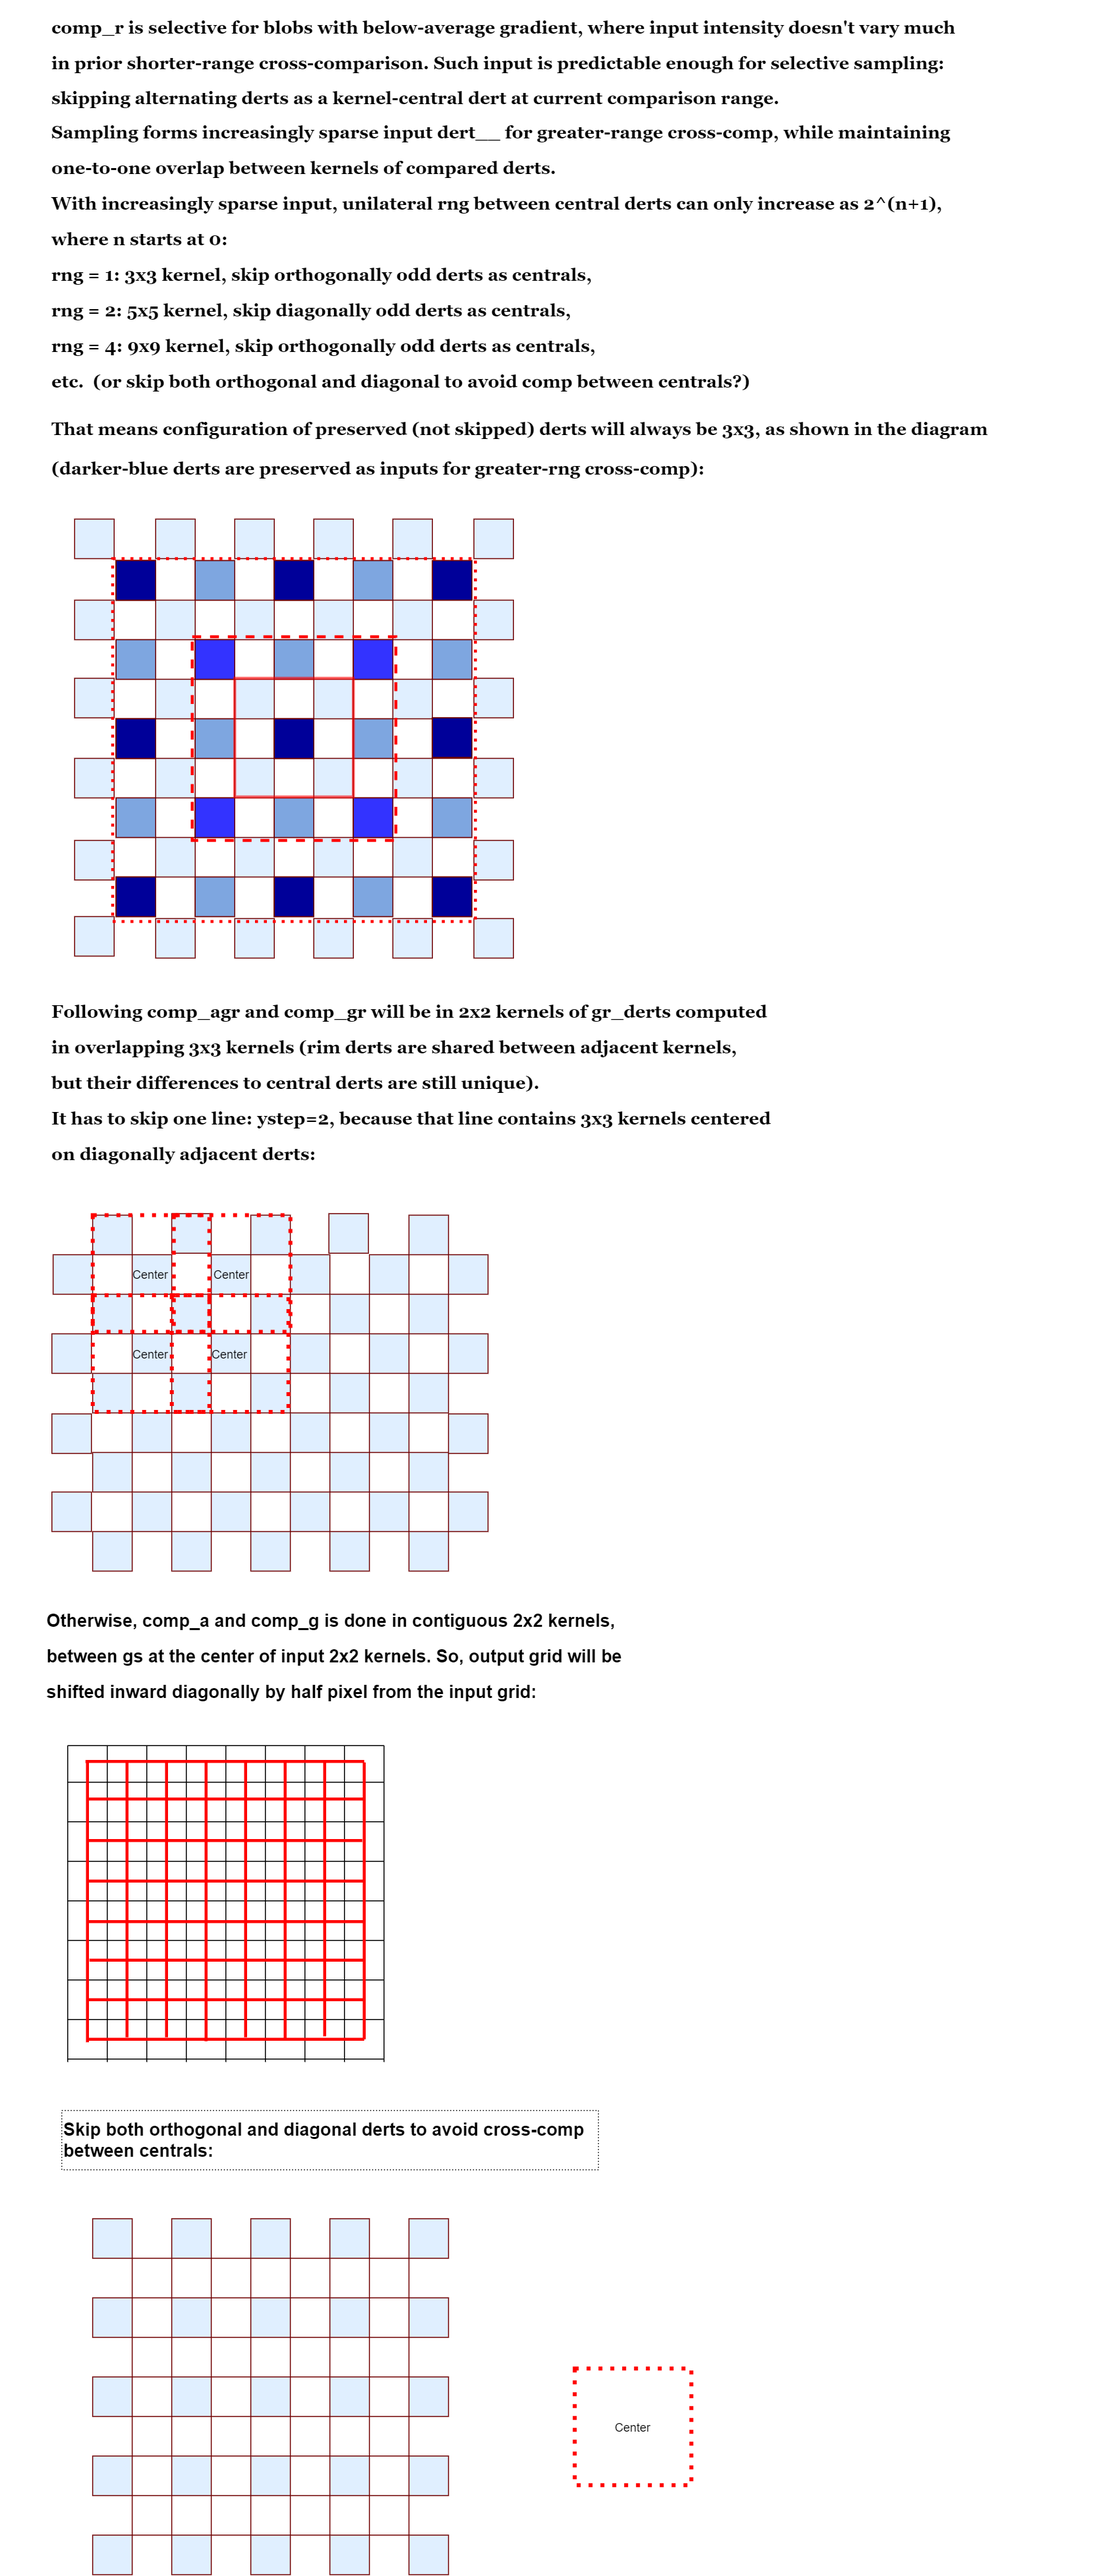
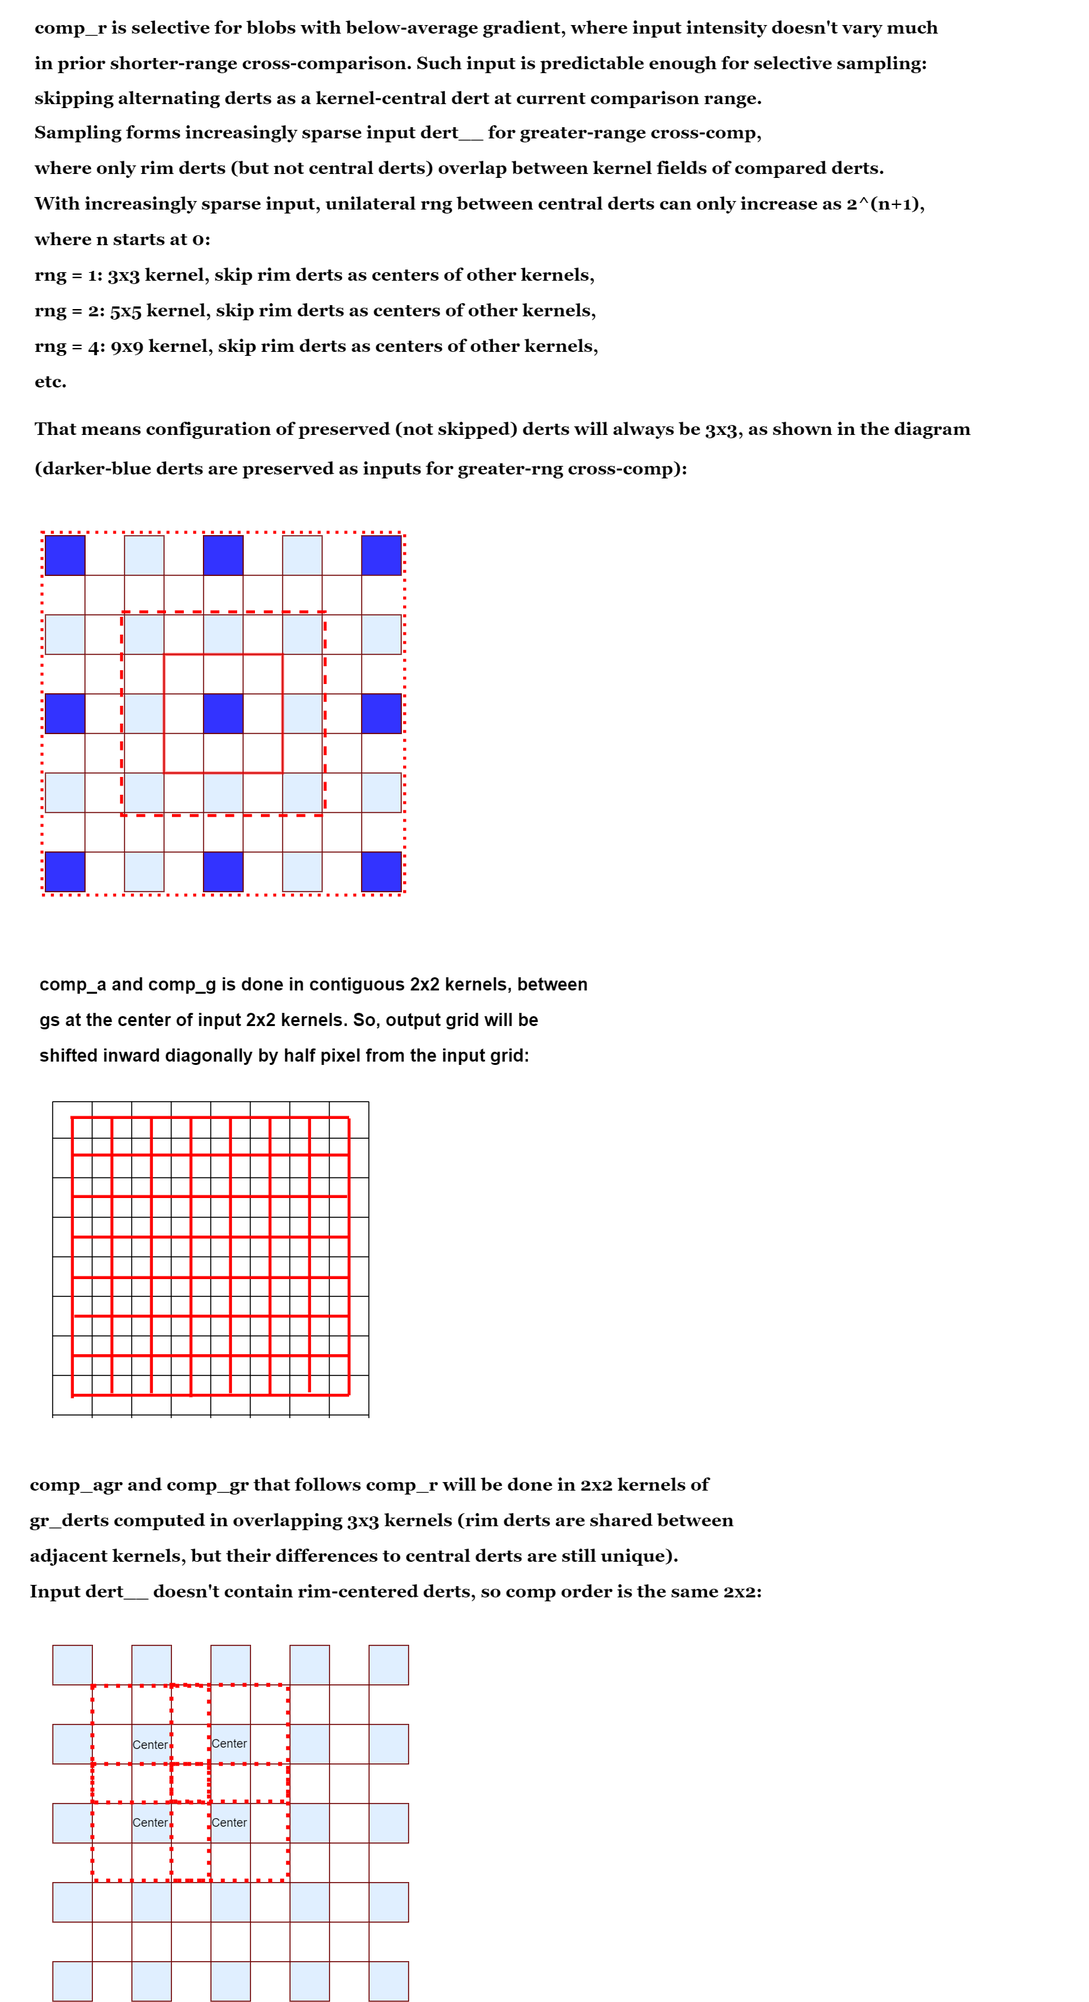
removed diagonally adjacent derts as centrals

diff --git a/frame_2D_alg/intra_blob_draft.py b/frame_2D_alg/intra_blob_draft.py
@@ -33,7 +33,7 @@ from functools import reduce
     sign, 
     map,  # boolean map of blob, to compute overlap in comp_blob
     box,  # boundary box: y0, yn, x0, xn; selective map, box in lower Layers
-    dert__, # comp_a -> ga, day, dax; comp r -> i, g, dy, dx, m; comp_g -> i, g, dy, dx, m, ga, day, dax 
+    dert__, # comp r | comp_g -> i, g, dy, dx, m; comp_a -> i, g, dy, dx, m, ga, day, dax 
     stack_[ stack_params, Py_ [(P_params, dert_)]]: refs down blob formation tree, in vertical (horizontal) order
     layer_  # [(fork_params, Dert, sub_blob_)]: list of layers across sub_blob derivation tree, nested mixed-fork deep layers
 '''
@@ -46,26 +46,26 @@ aveB = 10000  # fixed cost per intra_blob comp and clustering
 # -----------------------------------------------------------------------------------------------------------------------
 # functions, ALL WORK-IN-PROGRESS:
 
-def intra_blob(blob, rdn, rng, fig, fca, fcr, fga, ystep):  # recursive input rng+ | der+ | angle cross-comp within a blob
+def intra_blob(blob, rdn, rng, fig, fca, fcr, fga):  # recursive input rng+ | der+ | angle cross-comp within a blob
 
-    # flags:
-    # fca: comp angle, fga: comp angle of ga vs g, fig: input is g vs pixel, fcr: comp over rng+ vs der+, fc3: comp 3x3
+    # flags: fca: comp angle, fga: comp angle of ga vs g, fig: input is g vs pixel, fcr: comp over rng+ vs der+
+
     if fca:
-        dert__ = comp_a(blob['dert__'], fga, ystep)  # form ga blobs, evaluate for comp_aga | comp_g:
+        dert__ = comp_a(blob['dert__'], fga)  # form ga blobs, evaluate for comp_aga | comp_g:
         cluster_derts(blob, dert__, 1, rdn, 0, crit=5)  # cluster by sign of crit=ga -> ga_sub_blobs
 
         for sub_blob in blob['blob_']:  # eval intra_blob: if disoriented g: comp_aga, else comp_g
             if sub_blob['sign']:
                 if sub_blob['Dert']['Ga'] > aveB * rdn:
-                    # +Ga -> comp_aga -> adert = gaga, ga_day, ga_dax:
-                    intra_blob(sub_blob, rdn+1, rng=1, fig=1, fca=1, fcr=0, fga=1, ystep=1)
+                    # +Ga -> comp_aga -> dert + gaga, ga_day, ga_dax:
+                    intra_blob(sub_blob, rdn+1, rng=1, fig=1, fca=1, fcr=0, fga=1)
 
             elif -sub_blob['Dert']['Ga'] > aveB * rdn:
-                # -Ga -> comp_g -> gdert = g, gg, gdy, gdx, gm, ga, day, dax:
-                intra_blob(sub_blob, rdn+1, rng=1, fig=1, fca=0, fcr=0, fga=1, ystep=ystep)  # fga passed to comp_agg
+                # -Ga -> comp_g -> dert = g, gg, gdy, gdx, gm:
+                intra_blob(sub_blob, rdn+1, rng=1, fig=1, fca=0, fcr=0, fga=1)  # fga passed to comp_agg
     else:
-        if fcr: dert__ = comp_r(blob['dert__'], fig)  # 1-sparse sampling to maintain t-to-1 comp overlap
-        else:   dert__ = comp_g(blob['dert__'], ystep)  # sparse 3x3 comp if comp_gr
+        if fcr: dert__ = comp_r(blob['dert__'], fig)  # sparse sampling to avoid kernel center overlap
+        else:   dert__ = comp_g(blob['dert__'])
 
         cluster_derts(blob, dert__, 1, rdn, fig, crit=1)  # cluster by sign of crit=g -> g_sub_blobs
         # feedback: root['layer_'] += [[(lL, fig, fcr, rdn, rng, blob['sub_blob_'])]]  # 1st sub_layer
@@ -73,12 +73,12 @@ def intra_blob(blob, rdn, rng, fig, fca, fcr, fga, ystep):  # recursive input rn
         for sub_blob in blob['blob_']:  # eval intra_blob comp_a | comp_rng if low gradient
             if sub_blob['sign']:
                 if sub_blob['Dert']['G'] > aveB * rdn:
-                    # +G -> comp_a -> adert = a, ga=0, day=0, dax=0:
-                    intra_blob(sub_blob, rdn+1, rng=1, fig=1, fca=1, fcr=0, fga=0, ystep=ystep)
+                    # +G -> comp_a -> dert + a, ga=0, day=0, dax=0:
+                    intra_blob(sub_blob, rdn+1, rng=1, fig=1, fca=1, fcr=0, fga=0)
 
             elif -sub_blob['Dert']['G'] > aveB * rdn:
-                # -G -> comp_r -> rdert = idert (with accumulated derivatives):
-                intra_blob(sub_blob, rdn+1, rng+1, fig=fig, fca=0, fcrn=1, fga=0, ystep=2 if fcr else 1)
+                # -G -> comp_r -> dert with accumulated derivatives:
+                intra_blob(sub_blob, rdn+1, rng+1, fig=fig, fca=0, fcr=1, fga=0)
                 # fga is passed to comp_agr
     '''
     also cluster_derts(crit=gi): abs_gg (no * cos(da)) -> abs_gblobs, no eval by Gi?
@@ -89,13 +89,13 @@ def intra_blob(blob, rdn, rng, fig, fca, fcr, fga, ystep):  # recursive input rn
 # constants:
 
 DERT_PARAMS = "I", "G", "Dy", "Dx", "M"  # formed by comp_r or comp_g, input to comp_a or comp_r
-gDERT_PARAMS = DERT_PARAMS + ("Ga", "Dyy", "Dxy", "Dyx", "Dxx")  # extension is formed by comp_a, input to comp_g
+aDERT_PARAMS = DERT_PARAMS + ("Ga", "Dyy", "Dxy", "Dyx", "Dxx")  # extension is formed by comp_a, input to comp_g
 P_PARAMS = "L", "x0", "dert_", "down_fork_", "up_fork_", "y", "sign"
 S_PARAMS = "S", "Ly", "y0", "x0", "xn", "Py_", "down_fork_", "up_fork_", "sign"
 P_PARAM_KEYS = DERT_PARAMS + P_PARAMS
-gP_PARAM_KEYS = gDERT_PARAMS + P_PARAMS
+aP_PARAM_KEYS = aDERT_PARAMS + P_PARAMS
 S_PARAM_KEYS = DERT_PARAMS + S_PARAMS
-gS_PARAM_KEYS = gDERT_PARAMS + S_PARAMS
+aS_PARAM_KEYS = aDERT_PARAMS + S_PARAMS
 
 
 def cluster_derts(blob, dert__, rdn, fig, fcr, crit):  # clustering crit is always g in dert[1], fder is a sign
@@ -126,7 +126,7 @@ def form_P__(dert__, Ave, fig, fcr, fca, x0=0, y0=0):  # cluster dert__ into P__
         param_keys = P_PARAM_KEYS
     else:
         crit__ = dert__[1, :, :] - Ave  # comp_g eval by g
-        param_keys = gP_PARAM_KEYS
+        param_keys = aP_PARAM_KEYS
 
     # Cluster dert__ into Pdert__:
     s_x_L__ = [*map(
